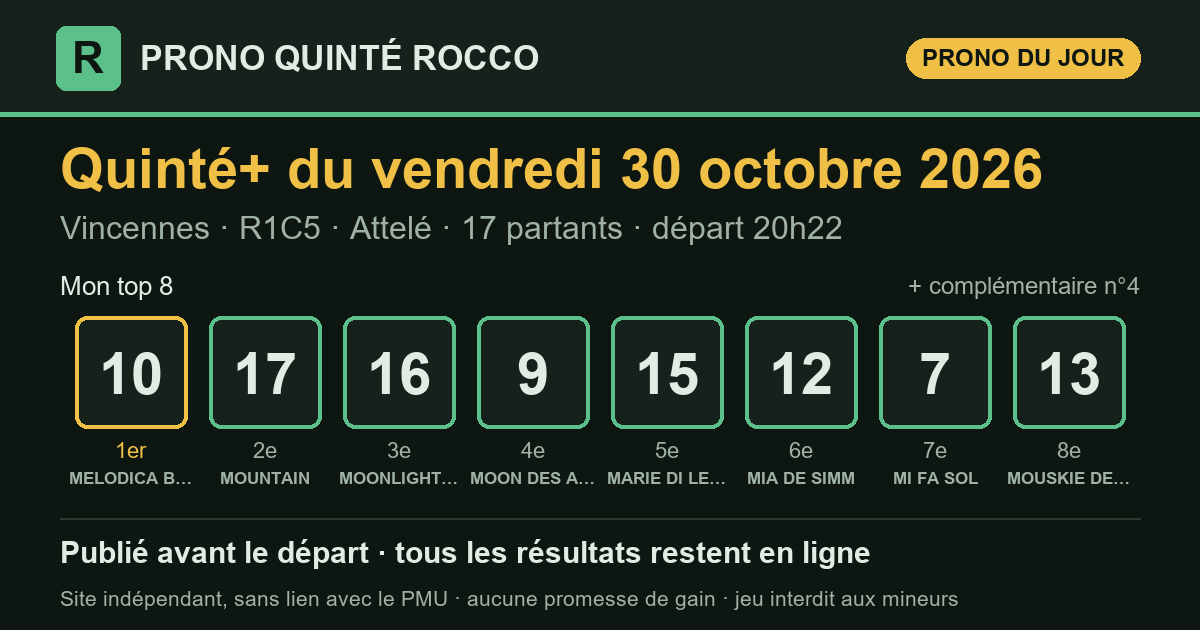
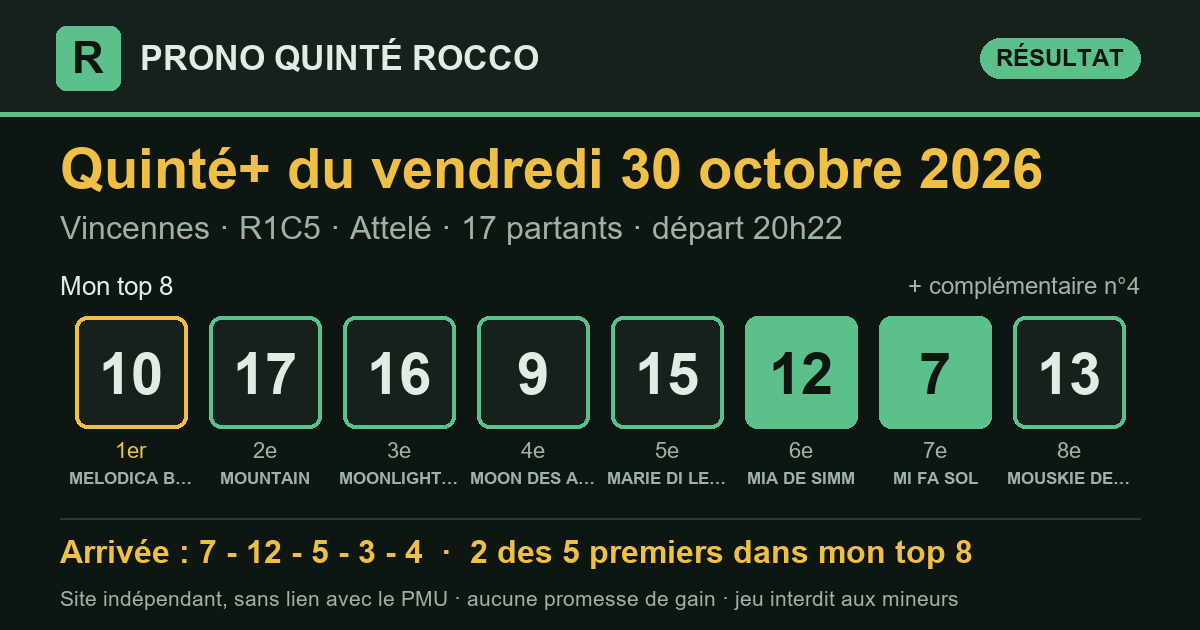
Prono Quinté+ 2026-10-30 Vincennes R1C5 — publié le 30/10/2026 20:39 (heure de Paris)

Changed region(s): [[0.0308, 0.8444, 0.8325, 0.9048], [0.6167, 0.4825, 0.8325, 0.6937], [0.74, 0.0603, 0.9558, 0.1508]]

diff --git a/partants.html b/partants.html
@@ -3,7 +3,7 @@
 <head>
 <meta charset="utf-8">
 <meta name="viewport" content="width=device-width, initial-scale=1, viewport-fit=cover">
-<title>Partants du Quinté+ du vendredi 30 octobre 2026 — Prono Quinté Rocco</title>
+<title>Partants du Quinté+ du samedi 31 octobre 2026 — Prono Quinté Rocco</title>
 <meta name="description" content="Les partants du prochain Quinté+ (programme officiel du PMU), avec le rang de chaque cheval dans mon prono et les liens vers les pronostics de la presse.">
 <link rel="canonical" href="https://prono-quinte-rocco.fr/partants.html">
 <link rel="stylesheet" href="style.css?v=88a1c822">
@@ -13,7 +13,7 @@
 <meta property="og:site_name" content="Prono Quinté Rocco">
 <meta property="og:locale" content="fr_FR">
 <meta property="og:type" content="website">
-<meta property="og:title" content="Partants du Quinté+ du vendredi 30 octobre 2026 — Prono Quinté Rocco">
+<meta property="og:title" content="Partants du Quinté+ du samedi 31 octobre 2026 — Prono Quinté Rocco">
 <meta property="og:description" content="Les partants du prochain Quinté+ (programme officiel du PMU), avec le rang de chaque cheval dans mon prono et les liens vers les pronostics de la presse.">
 <meta property="og:url" content="https://prono-quinte-rocco.fr/partants.html">
 <meta name="twitter:card" content="summary">
@@ -29,105 +29,100 @@
   <p class="surtitre">Programme officiel du PMU</p>
   <h1>Les partants du prochain Quinté+</h1>
   <div class="fiche-course">
-    <p class="fiche-date">Vendredi 30 octobre 2026</p>
-    <div class="fiche-rc"><span class="pastille" title="Réunion 1">R1</span><span class="pastille" title="Course 5">C5</span><span class="fiche-nom">Prix Mebsuta</span></div>
-    <p class="meta">Vincennes · Trot_attele · 2 700 m · 17 partants</p>
-    <p class="fiche-depart">Départ <b>20:22</b> <span>heure de Paris</span></p>
+    <p class="fiche-date">Samedi 31 octobre 2026</p>
+    <div class="fiche-rc"><span class="pastille" title="Réunion 1">R1</span><span class="pastille" title="Course 3">C3</span><span class="fiche-nom">Prix du Pays de Bray</span></div>
+    <p class="meta">Deauville · Plat · 1 900 m · 16 partants</p>
+    <p class="fiche-depart">Départ <b>15:15</b> <span>heure de Paris</span></p>
   </div>
   <p class="surtitre">Les pronostics ailleurs sur le web</p>
-  <div class="liens"><a class="lien-ext" href="https://www.turfoo.fr/programmes-courses/261030/reunion1-vincennes/course5-prix-mebsuta/pronostics-presse/" rel="noopener" target="_blank"><b>Les pronostics de la presse →</b><span>sur Turfoo (site extérieur)</span></a><a class="lien-ext" href="https://www.geny.com/programme/2026-10-30" rel="noopener" target="_blank"><b>Partants et pronostics →</b><span>programme du jour sur Geny (site extérieur)</span></a></div>
+  <div class="liens"><a class="lien-ext" href="https://www.turfoo.fr/programmes-courses/261031/reunion1-deauville/course3-prix-du-pays-de-bray/pronostics-presse/" rel="noopener" target="_blank"><b>Les pronostics de la presse →</b><span>sur Turfoo (site extérieur)</span></a><a class="lien-ext" href="https://www.geny.com/programme/2026-10-31" rel="noopener" target="_blank"><b>Partants et pronostics →</b><span>programme du jour sur Geny (site extérieur)</span></a></div>
   <div class="liste-boite"><table class="liste-partants">
     <thead><tr><th>N°</th><th>Cheval</th><th class="cote"><span class="long">Cote du matin</span><span class="court">Cote</span></th>
     <th class="ia"><span class="long">Mon prono</span><span class="court">Prono</span></th></tr></thead>
     <tbody><tr>
   <td><span class="tapis petit">1</span></td>
-  <td><span class="cheval">MY HAPPY STORY</span><span class="sous">D. BONNE · D. BONNE</span></td>
-  <td class="cote num">45,0</td>
+  <td><span class="cheval">ZELZARA</span><span class="sous">H.JOURNIAC · Y.BARBEROT (S)</span></td>
+  <td class="cote num">—</td>
   <td class="ia">—</td>
 </tr><tr>
   <td><span class="tapis petit">2</span></td>
-  <td><span class="cheval">MYGIRL DES FORGES</span><span class="sous">ALEXANDRE BODIN · CH. MOTTIER</span></td>
-  <td class="cote num">106,0</td>
+  <td><span class="cheval">WOOD MING</span><span class="sous">R.THOMAS · MME C.BARANDE BARBE</span></td>
+  <td class="cote num">—</td>
   <td class="ia">—</td>
 </tr><tr>
   <td><span class="tapis petit">3</span></td>
-  <td><span class="cheval">MA LIBERTE</span><span class="sous">M. MOTTIER · M. MOTTIER</span></td>
-  <td class="cote num">29,0</td>
+  <td><span class="cheval">LOUIZA</span><span class="sous">PC.BOUDOT · M.DELZANGLES</span></td>
+  <td class="cote num">—</td>
   <td class="ia">—</td>
 </tr><tr>
   <td><span class="tapis petit">4</span></td>
-  <td><span class="cheval">MILANTERA</span><span class="sous">A. BARRIER · J.PH. MONCLIN</span></td>
-  <td class="cote num">26,0</td>
-  <td class="ia"><span class="etat place">compl.</span></td>
+  <td><span class="cheval">BON VIVEUR</span><span class="sous">S.PASQUIER · G.PANNIER</span></td>
+  <td class="cote num">—</td>
+  <td class="ia">—</td>
 </tr><tr>
   <td><span class="tapis petit">5</span></td>
-  <td><span class="cheval">MORNING NEWS</span><span class="sous">A. COLLETTE · Sté. Ent. Etienne DUBOIS</span></td>
-  <td class="cote num">27,0</td>
+  <td><span class="cheval">CRACKON</span><span class="sous">I.MENDIZABAL · M.DELCHER SANCHEZ</span></td>
+  <td class="cote num">—</td>
   <td class="ia">—</td>
 </tr><tr>
   <td><span class="tapis petit">6</span></td>
-  <td><span class="cheval">MAHIZ DE GUEZ</span><span class="sous">N. BAZIRE · N. BAZIRE</span></td>
-  <td class="cote num">40,0</td>
+  <td><span class="cheval">VICTORY PACE</span><span class="sous">M.GRANDIN · G.MOSSE (S)</span></td>
+  <td class="cote num">—</td>
   <td class="ia">—</td>
 </tr><tr>
   <td><span class="tapis petit">7</span></td>
-  <td><span class="cheval">MI FA SOL</span><span class="sous">F. NIVARD · F. NIVARD</span></td>
-  <td class="cote num">13,0</td>
-  <td class="ia"><span class="etat place">7<sup>e</sup></span></td>
+  <td><span class="cheval">PALM SPRINGS</span><span class="sous">C.LECOEUVRE · M.BARATTI (S)</span></td>
+  <td class="cote num">—</td>
+  <td class="ia">—</td>
 </tr><tr>
   <td><span class="tapis petit">8</span></td>
-  <td><span class="cheval">MISSLADY DU VICLAU</span><span class="sous">CH. HESLOUIN · CH. HESLOUIN</span></td>
-  <td class="cote num">12,0</td>
+  <td><span class="cheval">NATORSPEED ESSEF</span><span class="sous">T.PICCONE · HA.PANTALL (S)</span></td>
+  <td class="cote num">—</td>
   <td class="ia">—</td>
 </tr><tr>
   <td><span class="tapis petit">9</span></td>
-  <td><span class="cheval">MOON DES ARRIS</span><span class="sous">A. REBECHE · V. LEBARQUE</span></td>
-  <td class="cote num">16,0</td>
-  <td class="ia"><span class="etat place">4<sup>e</sup></span></td>
+  <td><span class="cheval">AMIE AMOUR</span><span class="sous">M.GUYON · P&amp;J.BRANDT (S)</span></td>
+  <td class="cote num">—</td>
+  <td class="ia">—</td>
 </tr><tr>
   <td><span class="tapis petit">10</span></td>
-  <td><span class="cheval">MELODICA BELLA</span><span class="sous">A. WIELS · J.P. MARMION</span></td>
-  <td class="cote num">5,3</td>
-  <td class="ia"><span class="etat place">1<sup>er</sup></span></td>
+  <td><span class="cheval">IL MAGISTERO</span><span class="sous">L.PLOMMEE · M.CESANDRI (S)</span></td>
+  <td class="cote num">—</td>
+  <td class="ia">—</td>
 </tr><tr>
   <td><span class="tapis petit">11</span></td>
-  <td><span class="cheval">MERIDA DU GRANIT</span><span class="sous">T. OUVRIE · J.PH. MONCLIN</span></td>
-  <td class="cote num">63,0</td>
+  <td><span class="cheval">MISTER BLACK</span><span class="sous">M.LERNER · C&amp;Y.LERNER (S)</span></td>
+  <td class="cote num">—</td>
   <td class="ia">—</td>
 </tr><tr>
   <td><span class="tapis petit">12</span></td>
-  <td><span class="cheval">MIA DE SIMM</span><span class="sous">F. LAGADEUC · J.ET. LE BEC</span></td>
-  <td class="cote num">13,0</td>
-  <td class="ia"><span class="etat place">6<sup>e</sup></span></td>
+  <td><span class="cheval">INGEBORG</span><span class="sous">H.BOUTIN · J.BOISNARD (S)</span></td>
+  <td class="cote num">—</td>
+  <td class="ia">—</td>
 </tr><tr>
   <td><span class="tapis petit">13</span></td>
-  <td><span class="cheval">MOUSKIE DE GUEZ</span><span class="sous">J.M. BAZIRE · N. BAZIRE</span></td>
-  <td class="cote num">8,6</td>
-  <td class="ia"><span class="etat place">8<sup>e</sup></span></td>
+  <td><span class="cheval">BLANC CARAT</span><span class="sous">G.SIAS · V.SARTORI</span></td>
+  <td class="cote num">—</td>
+  <td class="ia">—</td>
 </tr><tr>
   <td><span class="tapis petit">14</span></td>
-  <td><span class="cheval">MERRY RIVER</span><span class="sous">B. ROCHARD · S. GUARATO</span></td>
-  <td class="cote num">19,0</td>
+  <td><span class="cheval">HONEY PEARL</span><span class="sous">A.CRASTUS · C.LECRIVAIN</span></td>
+  <td class="cote num">—</td>
   <td class="ia">—</td>
 </tr><tr>
   <td><span class="tapis petit">15</span></td>
-  <td><span class="cheval">MARIE DI LEONE</span><span class="sous">P.PH. PLOQUIN · H. LE BEC</span></td>
-  <td class="cote num">16,0</td>
-  <td class="ia"><span class="etat place">5<sup>e</sup></span></td>
+  <td><span class="cheval">PARVAGE</span><span class="sous">D.PROVOST · Y.BARBEROT (S)</span></td>
+  <td class="cote num">—</td>
+  <td class="ia">—</td>
 </tr><tr>
   <td><span class="tapis petit">16</span></td>
-  <td><span class="cheval">MOONLIGHT STAR</span><span class="sous">E. RAFFIN · ALEXANDRE CHEVRIER</span></td>
-  <td class="cote num">8,2</td>
-  <td class="ia"><span class="etat place">3<sup>e</sup></span></td>
-</tr><tr>
-  <td><span class="tapis petit">17</span></td>
-  <td><span class="cheval">MOUNTAIN</span><span class="sous">J. DUBOIS · J. DUBOIS</span></td>
-  <td class="cote num">6,3</td>
-  <td class="ia"><span class="etat place">2<sup>e</sup></span></td>
+  <td><span class="cheval">MARASI DRIVE</span><span class="sous">A.LEMAITRE · F.CHAPPET (S)</span></td>
+  <td class="cote num">—</td>
+  <td class="ia">—</td>
 </tr></tbody>
   </table></div>
-  <p class="meta">La colonne « Mon prono » donne le rang de chaque cheval dans mon top 8, tel qu&#x27;il est publié sur ce site. Sous chaque cheval : driver · entraîneur. Partants et cotes : programme
-  officiel du PMU, lu le 30/10 à 09:34 (heure de Paris). NP = non-partant.</p>
+  <p class="meta">Mon prono de cette course sera publié le matin de la course, avant le départ. Sous chaque cheval : jockey · entraîneur. Partants et cotes : programme
+  officiel du PMU, lu le 30/10 à 20:39 (heure de Paris). NP = non-partant.</p>
 </section>
 </main>
 <footer class="pied">

diff --git a/index.html b/index.html
@@ -16,7 +16,7 @@
 <meta property="og:title" content="Pronostic Quinté+ du vendredi 30 octobre 2026 — Prono Quinté Rocco">
 <meta property="og:description" content="Pronostic Quinté+ du jour : mon top 8, publié avant le départ, puis tous les résultats et le rendement réel.">
 <meta property="og:url" content="https://prono-quinte-rocco.fr/">
-<meta property="og:image" content="https://prono-quinte-rocco.fr/partage/2026-10-30.png?v=f62a3d88">
+<meta property="og:image" content="https://prono-quinte-rocco.fr/partage/2026-10-30.png?v=a92c46dd">
 <meta property="og:image:type" content="image/png">
 <meta property="og:image:width" content="1200">
 <meta property="og:image:height" content="630">
@@ -31,7 +31,7 @@
 </header>
 <main>
 <section class="une" aria-labelledby="t-jour">
-  <p class="surtitre">Quinté+ du jour</p>
+  <p class="surtitre">Dernier Quinté+</p>
   <h1 id="t-jour">Le prono du Quinté+, résultats compris</h1>
   <p class="chapo">Chaque matin, j'étudie les partants du Quinté+ avec le logiciel que
   j'ai conçu, selon ma propre méthode, qu'une intelligence artificielle m'aide à
@@ -42,10 +42,13 @@
   <p class="meta">Vincennes · <strong>R1C5</strong> · Attelé · 17 partants · lisibilité <span class="note" aria-label="note 2 sur 5"><i class="on"></i><i class="on"></i><i class=""></i><i class=""></i><i class=""></i></span> 2/5</p>
   <div class="zone-prono">
     <h3 class="zone-titre">Mon top 8</h3>
-    <ol class="partants" aria-label="Mon top 8"><li><span class="rang">1<sup>er</sup></span><span class="tapis ">10</span><span class="nom">MELODICA BELLA</span></li><li><span class="rang">2<sup>e</sup></span><span class="tapis ">17</span><span class="nom">MOUNTAIN</span></li><li><span class="rang">3<sup>e</sup></span><span class="tapis ">16</span><span class="nom">MOONLIGHT STAR</span></li><li><span class="rang">4<sup>e</sup></span><span class="tapis ">9</span><span class="nom">MOON DES ARRIS</span></li><li><span class="rang">5<sup>e</sup></span><span class="tapis ">15</span><span class="nom">MARIE DI LEONE</span></li><li><span class="rang">6<sup>e</sup></span><span class="tapis ">12</span><span class="nom">MIA DE SIMM</span></li><li><span class="rang">7<sup>e</sup></span><span class="tapis ">7</span><span class="nom">MI FA SOL</span></li><li><span class="rang">8<sup>e</sup></span><span class="tapis ">13</span><span class="nom">MOUSKIE DE GUEZ</span></li><li><span class="rang">compl.</span><span class="tapis creux">4</span><span class="nom">MILANTERA</span></li></ol>
+    <ol class="partants" aria-label="Mon top 8"><li><span class="rang">1<sup>er</sup></span><span class="tapis ">10</span><span class="nom">MELODICA BELLA</span></li><li><span class="rang">2<sup>e</sup></span><span class="tapis ">17</span><span class="nom">MOUNTAIN</span></li><li><span class="rang">3<sup>e</sup></span><span class="tapis ">16</span><span class="nom">MOONLIGHT STAR</span></li><li><span class="rang">4<sup>e</sup></span><span class="tapis ">9</span><span class="nom">MOON DES ARRIS</span></li><li><span class="rang">5<sup>e</sup></span><span class="tapis ">15</span><span class="nom">MARIE DI LEONE</span></li><li><span class="rang">6<sup>e</sup></span><span class="tapis plein">12</span><span class="nom">MIA DE SIMM</span></li><li><span class="rang">7<sup>e</sup></span><span class="tapis plein">7</span><span class="nom">MI FA SOL</span></li><li><span class="rang">8<sup>e</sup></span><span class="tapis ">13</span><span class="nom">MOUSKIE DE GUEZ</span></li><li><span class="rang">compl.</span><span class="tapis creux plein">4</span><span class="nom">MILANTERA</span></li></ol>
     <div class="pied-carte"><span>Analysé le 30/10 à 09:31 · en ligne le 30/10 à 09:34 · départ à 20:22 (heure de Paris)</span><span><a href="quinte/2026-10-30.html">Détail de la course</a></span></div>
   </div>
-  <div class="zone-arrivee attente"><p>L'arrivée officielle s'affichera ici après la course.</p></div>
+  <div class="zone-arrivee">
+    <div class="zone-tete"><h3 class="zone-titre">Arrivée officielle</h3><span class="etat place">2 des 5 premiers dans mon top 8</span><span class="etat non">mon 1er (n°10) : non placé</span></div>
+    <ol class="partants" aria-label="Arrivée officielle"><li><span class="rang">1<sup>er</sup></span><span class="tapis plein">7</span><span class="nom">MI FA SOL</span></li><li><span class="rang">2<sup>e</sup></span><span class="tapis plein">12</span><span class="nom">MIA DE SIMM</span></li><li><span class="rang">3<sup>e</sup></span><span class="tapis hors">5</span><span class="nom">MORNING NEWS</span></li><li><span class="rang">4<sup>e</sup></span><span class="tapis hors">3</span><span class="nom">MA LIBERTE</span></li><li><span class="rang">5<sup>e</sup></span><span class="tapis creux plein">4</span><span class="nom">MILANTERA</span></li></ol>
+  </div>
 </article>
 </section>
 <section class="suivre" aria-label="Suivre et soutenir">
@@ -75,7 +78,7 @@
 </section>
 <section class="bilan" aria-labelledby="t-bilan">
   <h2 id="t-bilan">Mon bilan depuis le 8 septembre 2026</h2>
-  <div class="tableau chiffres"><div class="case"><span class="gros ">73 %</span><span class="lib">des arrivants trouvés dans mon top 8</span><span class="ref">un top 8 tiré au hasard : 51 %</span></div><div class="case"><span class="gros ">86 %</span><span class="lib">des gagnants présents dans mon top 8</span><span class="ref"></span></div><div class="case"><span class="gros ">49 %</span><span class="lib">mon 1er placé</span><span class="ref">sur 51 Quintés</span></div><div class="case"><span class="gros perte">0,91 €</span><span class="lib">rendus pour 1 € joué placé sur mon 1er</span><span class="ref">rapports officiels PMU</span></div><div class="case"><span class="gros perte">0,46 €</span><span class="lib">rendus pour 1 € joué en Quinté+ combiné sur mon top 8</span><span class="ref">56 combinaisons, rapports PMU.fr, sur 51 Quintés</span></div></div>
+  <div class="tableau chiffres"><div class="case"><span class="gros ">72 %</span><span class="lib">des arrivants trouvés dans mon top 8</span><span class="ref">un top 8 tiré au hasard : 51 %</span></div><div class="case"><span class="gros ">87 %</span><span class="lib">des gagnants présents dans mon top 8</span><span class="ref"></span></div><div class="case"><span class="gros ">49 %</span><span class="lib">mon 1er placé</span><span class="ref">sur 51 Quintés</span></div><div class="case"><span class="gros perte">0,91 €</span><span class="lib">rendus pour 1 € joué placé sur mon 1er</span><span class="ref">rapports officiels PMU</span></div><div class="case"><span class="gros perte">0,45 €</span><span class="lib">rendus pour 1 € joué en Quinté+ combiné sur mon top 8</span><span class="ref">56 combinaisons, rapports PMU.fr, sur 52 Quintés</span></div></div>
   <p class="avertissement">Moins de 1 € rendu pour 1 € joué : suivre mon prono à la lettre fait <strong>perdre de l'argent</strong> sur cette période. Il sert à analyser une course, pas à promettre un gain.</p>
 </section>
 </main>

diff --git a/quinte/2026-10-30.html b/quinte/2026-10-30.html
@@ -16,7 +16,7 @@
 <meta property="og:title" content="Pronostic Quinté+ du vendredi 30 octobre 2026 à Vincennes — Prono Quinté Rocco">
 <meta property="og:description" content="Prono Quinté+ du vendredi 30 octobre 2026 (Vincennes) : mon top 8, l&#x27;arrivée officielle et les rapports PMU.fr.">
 <meta property="og:url" content="https://prono-quinte-rocco.fr/quinte/2026-10-30.html">
-<meta property="og:image" content="https://prono-quinte-rocco.fr/partage/2026-10-30.png?v=f62a3d88">
+<meta property="og:image" content="https://prono-quinte-rocco.fr/partage/2026-10-30.png?v=a92c46dd">
 <meta property="og:image:type" content="image/png">
 <meta property="og:image:width" content="1200">
 <meta property="og:image:height" content="630">
@@ -35,15 +35,25 @@
   <h1>Pronostic Quinté+ du vendredi 30 octobre 2026</h1>
   <p class="chapo">Vincennes · R1C5 · Attelé · 17 partants</p>
   <article class="carte-course">
-  <div class="tete"><h2>Mon prono</h2></div>
+  <div class="tete"><h2>Mon prono et l&#x27;arrivée officielle</h2></div>
   <p class="meta">Vincennes · <strong>R1C5</strong> · Attelé · 17 partants · lisibilité <span class="note" aria-label="note 2 sur 5"><i class="on"></i><i class="on"></i><i class=""></i><i class=""></i><i class=""></i></span> 2/5</p>
   <div class="zone-prono">
     <h3 class="zone-titre">Mon top 8</h3>
-    <ol class="partants" aria-label="Mon top 8"><li><span class="rang">1<sup>er</sup></span><span class="tapis ">10</span><span class="nom">MELODICA BELLA</span></li><li><span class="rang">2<sup>e</sup></span><span class="tapis ">17</span><span class="nom">MOUNTAIN</span></li><li><span class="rang">3<sup>e</sup></span><span class="tapis ">16</span><span class="nom">MOONLIGHT STAR</span></li><li><span class="rang">4<sup>e</sup></span><span class="tapis ">9</span><span class="nom">MOON DES ARRIS</span></li><li><span class="rang">5<sup>e</sup></span><span class="tapis ">15</span><span class="nom">MARIE DI LEONE</span></li><li><span class="rang">6<sup>e</sup></span><span class="tapis ">12</span><span class="nom">MIA DE SIMM</span></li><li><span class="rang">7<sup>e</sup></span><span class="tapis ">7</span><span class="nom">MI FA SOL</span></li><li><span class="rang">8<sup>e</sup></span><span class="tapis ">13</span><span class="nom">MOUSKIE DE GUEZ</span></li><li><span class="rang">compl.</span><span class="tapis creux">4</span><span class="nom">MILANTERA</span></li></ol>
+    <ol class="partants" aria-label="Mon top 8"><li><span class="rang">1<sup>er</sup></span><span class="tapis ">10</span><span class="nom">MELODICA BELLA</span></li><li><span class="rang">2<sup>e</sup></span><span class="tapis ">17</span><span class="nom">MOUNTAIN</span></li><li><span class="rang">3<sup>e</sup></span><span class="tapis ">16</span><span class="nom">MOONLIGHT STAR</span></li><li><span class="rang">4<sup>e</sup></span><span class="tapis ">9</span><span class="nom">MOON DES ARRIS</span></li><li><span class="rang">5<sup>e</sup></span><span class="tapis ">15</span><span class="nom">MARIE DI LEONE</span></li><li><span class="rang">6<sup>e</sup></span><span class="tapis plein">12</span><span class="nom">MIA DE SIMM</span></li><li><span class="rang">7<sup>e</sup></span><span class="tapis plein">7</span><span class="nom">MI FA SOL</span></li><li><span class="rang">8<sup>e</sup></span><span class="tapis ">13</span><span class="nom">MOUSKIE DE GUEZ</span></li><li><span class="rang">compl.</span><span class="tapis creux plein">4</span><span class="nom">MILANTERA</span></li></ol>
     <div class="pied-carte"><span>Analysé le 30/10 à 09:31 · en ligne le 30/10 à 09:34 · départ à 20:22 (heure de Paris)</span><span></span></div>
   </div>
-  <div class="zone-arrivee attente"><p>L'arrivée officielle s'affichera ici après la course.</p></div>
+  <div class="zone-arrivee">
+    <div class="zone-tete"><h3 class="zone-titre">Arrivée officielle</h3><span class="etat place">2 des 5 premiers dans mon top 8</span><span class="etat non">mon 1er (n°10) : non placé</span></div>
+    <ol class="partants" aria-label="Arrivée officielle"><li><span class="rang">1<sup>er</sup></span><span class="tapis plein">7</span><span class="nom">MI FA SOL</span></li><li><span class="rang">2<sup>e</sup></span><span class="tapis plein">12</span><span class="nom">MIA DE SIMM</span></li><li><span class="rang">3<sup>e</sup></span><span class="tapis hors">5</span><span class="nom">MORNING NEWS</span></li><li><span class="rang">4<sup>e</sup></span><span class="tapis hors">3</span><span class="nom">MA LIBERTE</span></li><li><span class="rang">5<sup>e</sup></span><span class="tapis creux plein">4</span><span class="nom">MILANTERA</span></li></ol>
+  </div>
 </article>
+<section class="carte-course rapports" aria-labelledby="t-rap">
+  <div class="tete"><h2 id="t-rap">Les rapports</h2></div>
+  <div class="deux">
+    <div><h3>Ce qu'aurait rendu mon prono</h3><dl class="kv"><dt>1 € placé sur mon 1er (n°10)</dt><dd>rapport manquant</dd><dt>1 € gagnant sur mon 1er</dt><dd>rapport manquant</dd><dt>Quinté+ combiné sur mon top 8 (mise 112 €)</dt><dd>0,00 €</dd><dt>dont</dt><dd>aucun gain</dd></dl></div>
+    <div><h3>Rapports officiels</h3><dl class="kv"><dt>e-Quinté+ Désordre (2 €)</dt><dd>15 939,00 €</dd><dt>e-Bonus 4sur5 (2 €)</dt><dd>69,40 €</dd><dt>e-Bonus 3 (2 €)</dt><dd>47,40 €</dd></dl></div>
+  </div>
+</section>
 </section>
 </main>
 <footer class="pied">

diff --git a/resultats.html b/resultats.html
@@ -40,11 +40,11 @@
     <th colspan="4" class="res g-res">Le résultat officiel</th></tr>
     <tr><th>Date</th><th>Course</th><th>Top 8</th><th class="res c-arr">Arrivée</th>
     <th class="res">Trouvés</th><th class="res">Mon 1er</th><th class="res mont">Quinté+ top 8<br>(mise 112 €)</th></tr></thead>
-    <tbody><tr class="attente">
+    <tbody><tr>
   <td class="c-date"><a href="quinte/2026-10-30.html">30/10</a></td>
   <td class="c-course">Vincennes<br><span class="meta">R1C5 · Attelé</span></td>
-  <td class="c-top8" data-label="Mon top 8"><div class="rangee"><span class="tapis petit">10</span><span class="tapis petit">17</span><span class="tapis petit">16</span><span class="tapis petit">9</span><span class="tapis petit">15</span><span class="tapis petit">12</span><span class="tapis petit">7</span><span class="tapis petit">13</span></div></td>
-  <td class="res c-arr" data-label="Arrivée"><span class="etat attente">en attente</span></td><td class="res num c-trouves" data-label="Trouvés">—</td><td class="res c-premier" data-label="Mon 1er"><span class="etat attente">—</span></td><td class="res mont c-mont" data-label="Quinté+ top 8 (mise 112 €)">—</td>
+  <td class="c-top8" data-label="Mon top 8"><div class="rangee"><span class="tapis petit">10</span><span class="tapis petit">17</span><span class="tapis petit">16</span><span class="tapis petit">9</span><span class="tapis petit">15</span><span class="tapis plein petit">12</span><span class="tapis plein petit">7</span><span class="tapis petit">13</span></div></td>
+  <td class="res c-arr" data-label="Arrivée"><div class="rangee"><span class="tapis plein petit" title="1er">7</span><span class="tapis plein petit" title="2e">12</span><span class="tapis hors petit" title="3e">5</span><span class="tapis hors petit" title="4e">3</span><span class="tapis hors petit" title="5e">4</span></div></td><td class="res num c-trouves" data-label="Trouvés">2/5</td><td class="res c-premier" data-label="Mon 1er"><span class="etat non">non placé</span></td><td class="res mont c-mont perte" data-label="Quinté+ top 8 (mise 112 €)">0,00 €</td>
 </tr><tr>
   <td class="c-date"><a href="quinte/2026-10-29.html">29/10</a></td>
   <td class="c-course">Vincennes<br><span class="meta">R1C1 · Attelé</span></td>
@@ -305,7 +305,7 @@
 </section>
 <section class="bilan" aria-labelledby="t-bilan">
   <h2 id="t-bilan">Mon bilan depuis le 8 septembre 2026</h2>
-  <div class="tableau chiffres"><div class="case"><span class="gros ">73 %</span><span class="lib">des arrivants trouvés dans mon top 8</span><span class="ref">un top 8 tiré au hasard : 51 %</span></div><div class="case"><span class="gros ">86 %</span><span class="lib">des gagnants présents dans mon top 8</span><span class="ref"></span></div><div class="case"><span class="gros ">49 %</span><span class="lib">mon 1er placé</span><span class="ref">sur 51 Quintés</span></div><div class="case"><span class="gros perte">0,91 €</span><span class="lib">rendus pour 1 € joué placé sur mon 1er</span><span class="ref">rapports officiels PMU</span></div><div class="case"><span class="gros perte">0,46 €</span><span class="lib">rendus pour 1 € joué en Quinté+ combiné sur mon top 8</span><span class="ref">56 combinaisons, rapports PMU.fr, sur 51 Quintés</span></div></div>
+  <div class="tableau chiffres"><div class="case"><span class="gros ">72 %</span><span class="lib">des arrivants trouvés dans mon top 8</span><span class="ref">un top 8 tiré au hasard : 51 %</span></div><div class="case"><span class="gros ">87 %</span><span class="lib">des gagnants présents dans mon top 8</span><span class="ref"></span></div><div class="case"><span class="gros ">49 %</span><span class="lib">mon 1er placé</span><span class="ref">sur 51 Quintés</span></div><div class="case"><span class="gros perte">0,91 €</span><span class="lib">rendus pour 1 € joué placé sur mon 1er</span><span class="ref">rapports officiels PMU</span></div><div class="case"><span class="gros perte">0,45 €</span><span class="lib">rendus pour 1 € joué en Quinté+ combiné sur mon top 8</span><span class="ref">56 combinaisons, rapports PMU.fr, sur 52 Quintés</span></div></div>
   <p class="avertissement">Moins de 1 € rendu pour 1 € joué : suivre mon prono à la lettre fait <strong>perdre de l'argent</strong> sur cette période. Il sert à analyser une course, pas à promettre un gain.</p>
 </section>
 </main>
